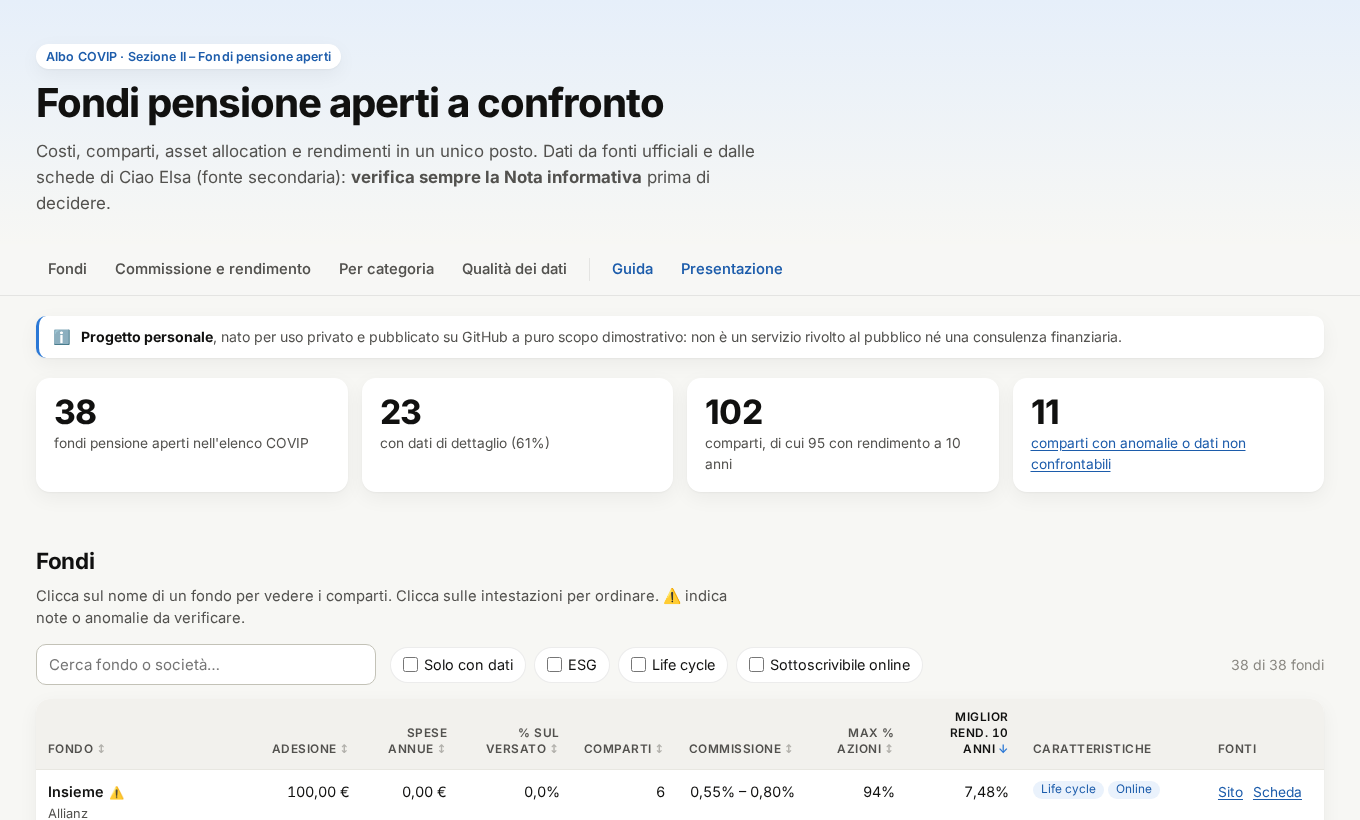
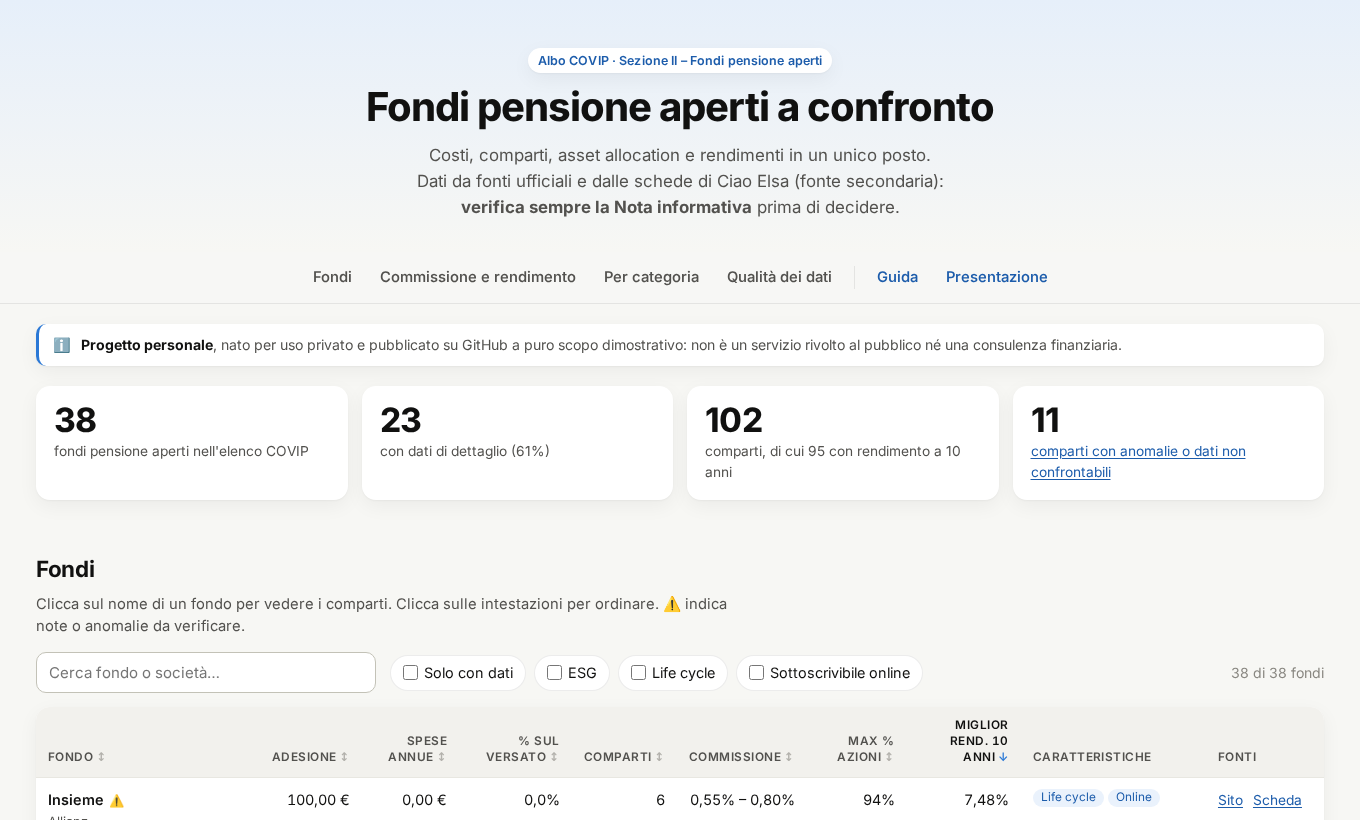
sito: intestazione centrata e a capo bilanciati
- Intestazione (etichetta, titolo, sottotitolo) e barra di navigazione
  centrate; su telefono la barra scorre partendo dal primo link
- text-wrap: balance sui titoli e pretty sui paragrafi, per evitare parole
  isolate a fine riga
- Screenshot e CLAUDE.md §7 aggiornati

diff --git a/docs/style.css b/docs/style.css
@@ -112,7 +112,7 @@ a:hover { text-decoration-thickness: 2px; }
 .skip:focus { left: 16px; top: 8px; background: var(--surface); padding: 8px; z-index: 30; }
 
 /* intestazione */
-.hero { background: linear-gradient(180deg, var(--hero-from), var(--hero-to)); padding: 44px 0 28px; }
+.hero { background: linear-gradient(180deg, var(--hero-from), var(--hero-to)); padding: 48px 0 32px; text-align: center; }
 .eyebrow {
   display: inline-block; margin: 0 0 12px; padding: 3px 10px; border-radius: 999px;
   background: var(--surface); box-shadow: var(--shadow);
@@ -121,7 +121,10 @@ a:hover { text-decoration-thickness: 2px; }
 h1 { font-size: clamp(1.7rem, 3.6vw, 2.5rem); line-height: 1.12; letter-spacing: -0.025em; font-weight: 750; margin: 0 0 12px; }
 h2 { font-size: 1.4rem; letter-spacing: -0.015em; font-weight: 700; margin: 0 0 6px; }
 h3 { font-size: 1.05rem; font-weight: 650; margin: 0 0 8px; }
-.lead { color: var(--ink-2); font-size: 1.05rem; max-width: 68ch; margin: 0; }
+.lead { color: var(--ink-2); font-size: 1.05rem; max-width: 62ch; margin: 0 auto; text-wrap: balance; }
+/* niente parole isolate a fine paragrafo; titoli con righe di lunghezza simile */
+h1, h2, h3 { text-wrap: balance; }
+p, li { text-wrap: pretty; }
 
 /* navigazione fissa */
 .topnav {
@@ -131,6 +134,9 @@ h3 { font-size: 1.05rem; font-weight: 650; margin: 0 0 8px; }
   border-bottom: 1px solid var(--border);
 }
 .topnav .wrap { display: flex; gap: 4px; overflow-x: auto; scrollbar-width: none; padding-top: 8px; padding-bottom: 8px; }
+/* centrata, ma se non entra (telefono) scorre partendo dal primo link invece di tagliarlo */
+.topnav .wrap > :first-child { margin-left: auto; }
+.topnav .wrap > :last-child { margin-right: auto; }
 .topnav a {
   flex: none; text-decoration: none; font-weight: 550; font-size: 0.92rem; color: var(--ink-2);
   padding: 6px 12px; border-radius: 999px; white-space: nowrap;

diff --git a/CLAUDE.md b/CLAUDE.md
@@ -201,7 +201,9 @@ responsive, accessibile, in italiano.
    `docs/data/`, poi tag e release). Dettagli nella §8.
 9. Pagine collegate dal menu: **Guida** (`docs/guida/`) e **Presentazione** (`docs/presentazione/`), vedi §10.
 10. **Stile**: semplice e poco distraente. Font Inter (Google Fonts, fallback di sistema), intestazione con leggera
-   sfumatura, navigazione fissa a pillole, card con ombre morbide, filtri a pillola. Colori come token CSS in
+   sfumatura, **intestazione e navigazione centrate** (il resto della pagina allineato a sinistra), navigazione fissa a
+   pillole, card con ombre morbide, filtri a pillola. `text-wrap: balance` sui titoli e `pretty` sui paragrafi, per
+   evitare parole isolate a fine riga. Colori come token CSS in
    `docs/style.css` (chiaro/scuro); i colori delle categorie del grafico sono validati e non vanno cambiati a occhio.
 
 ## 8. Versioni e release
